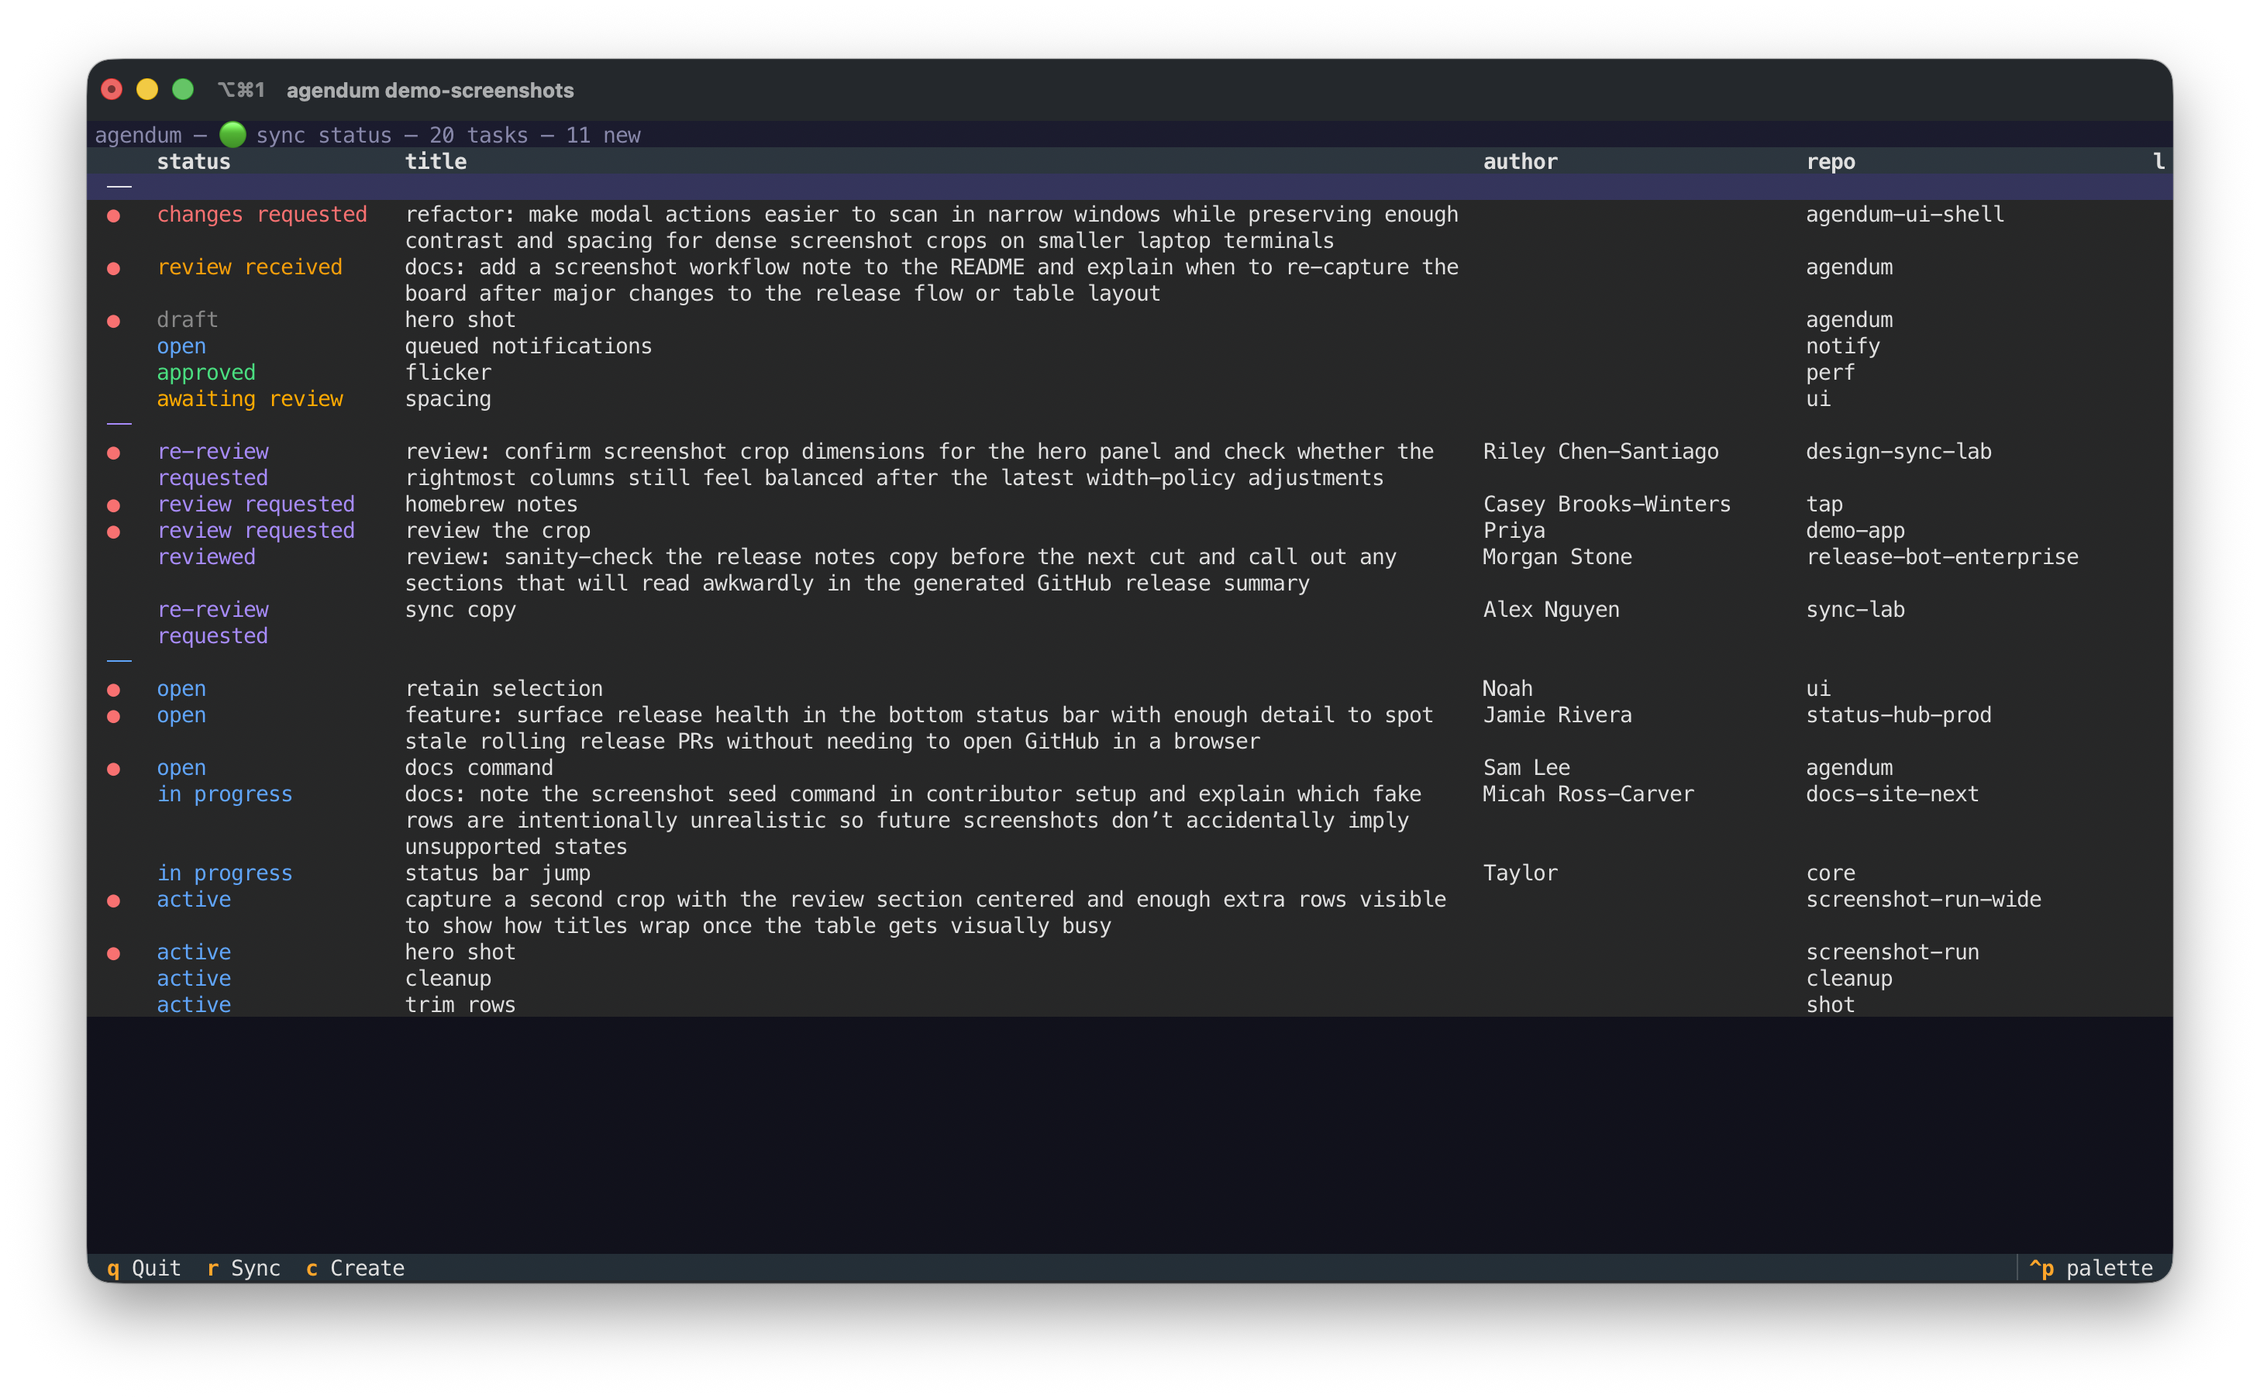
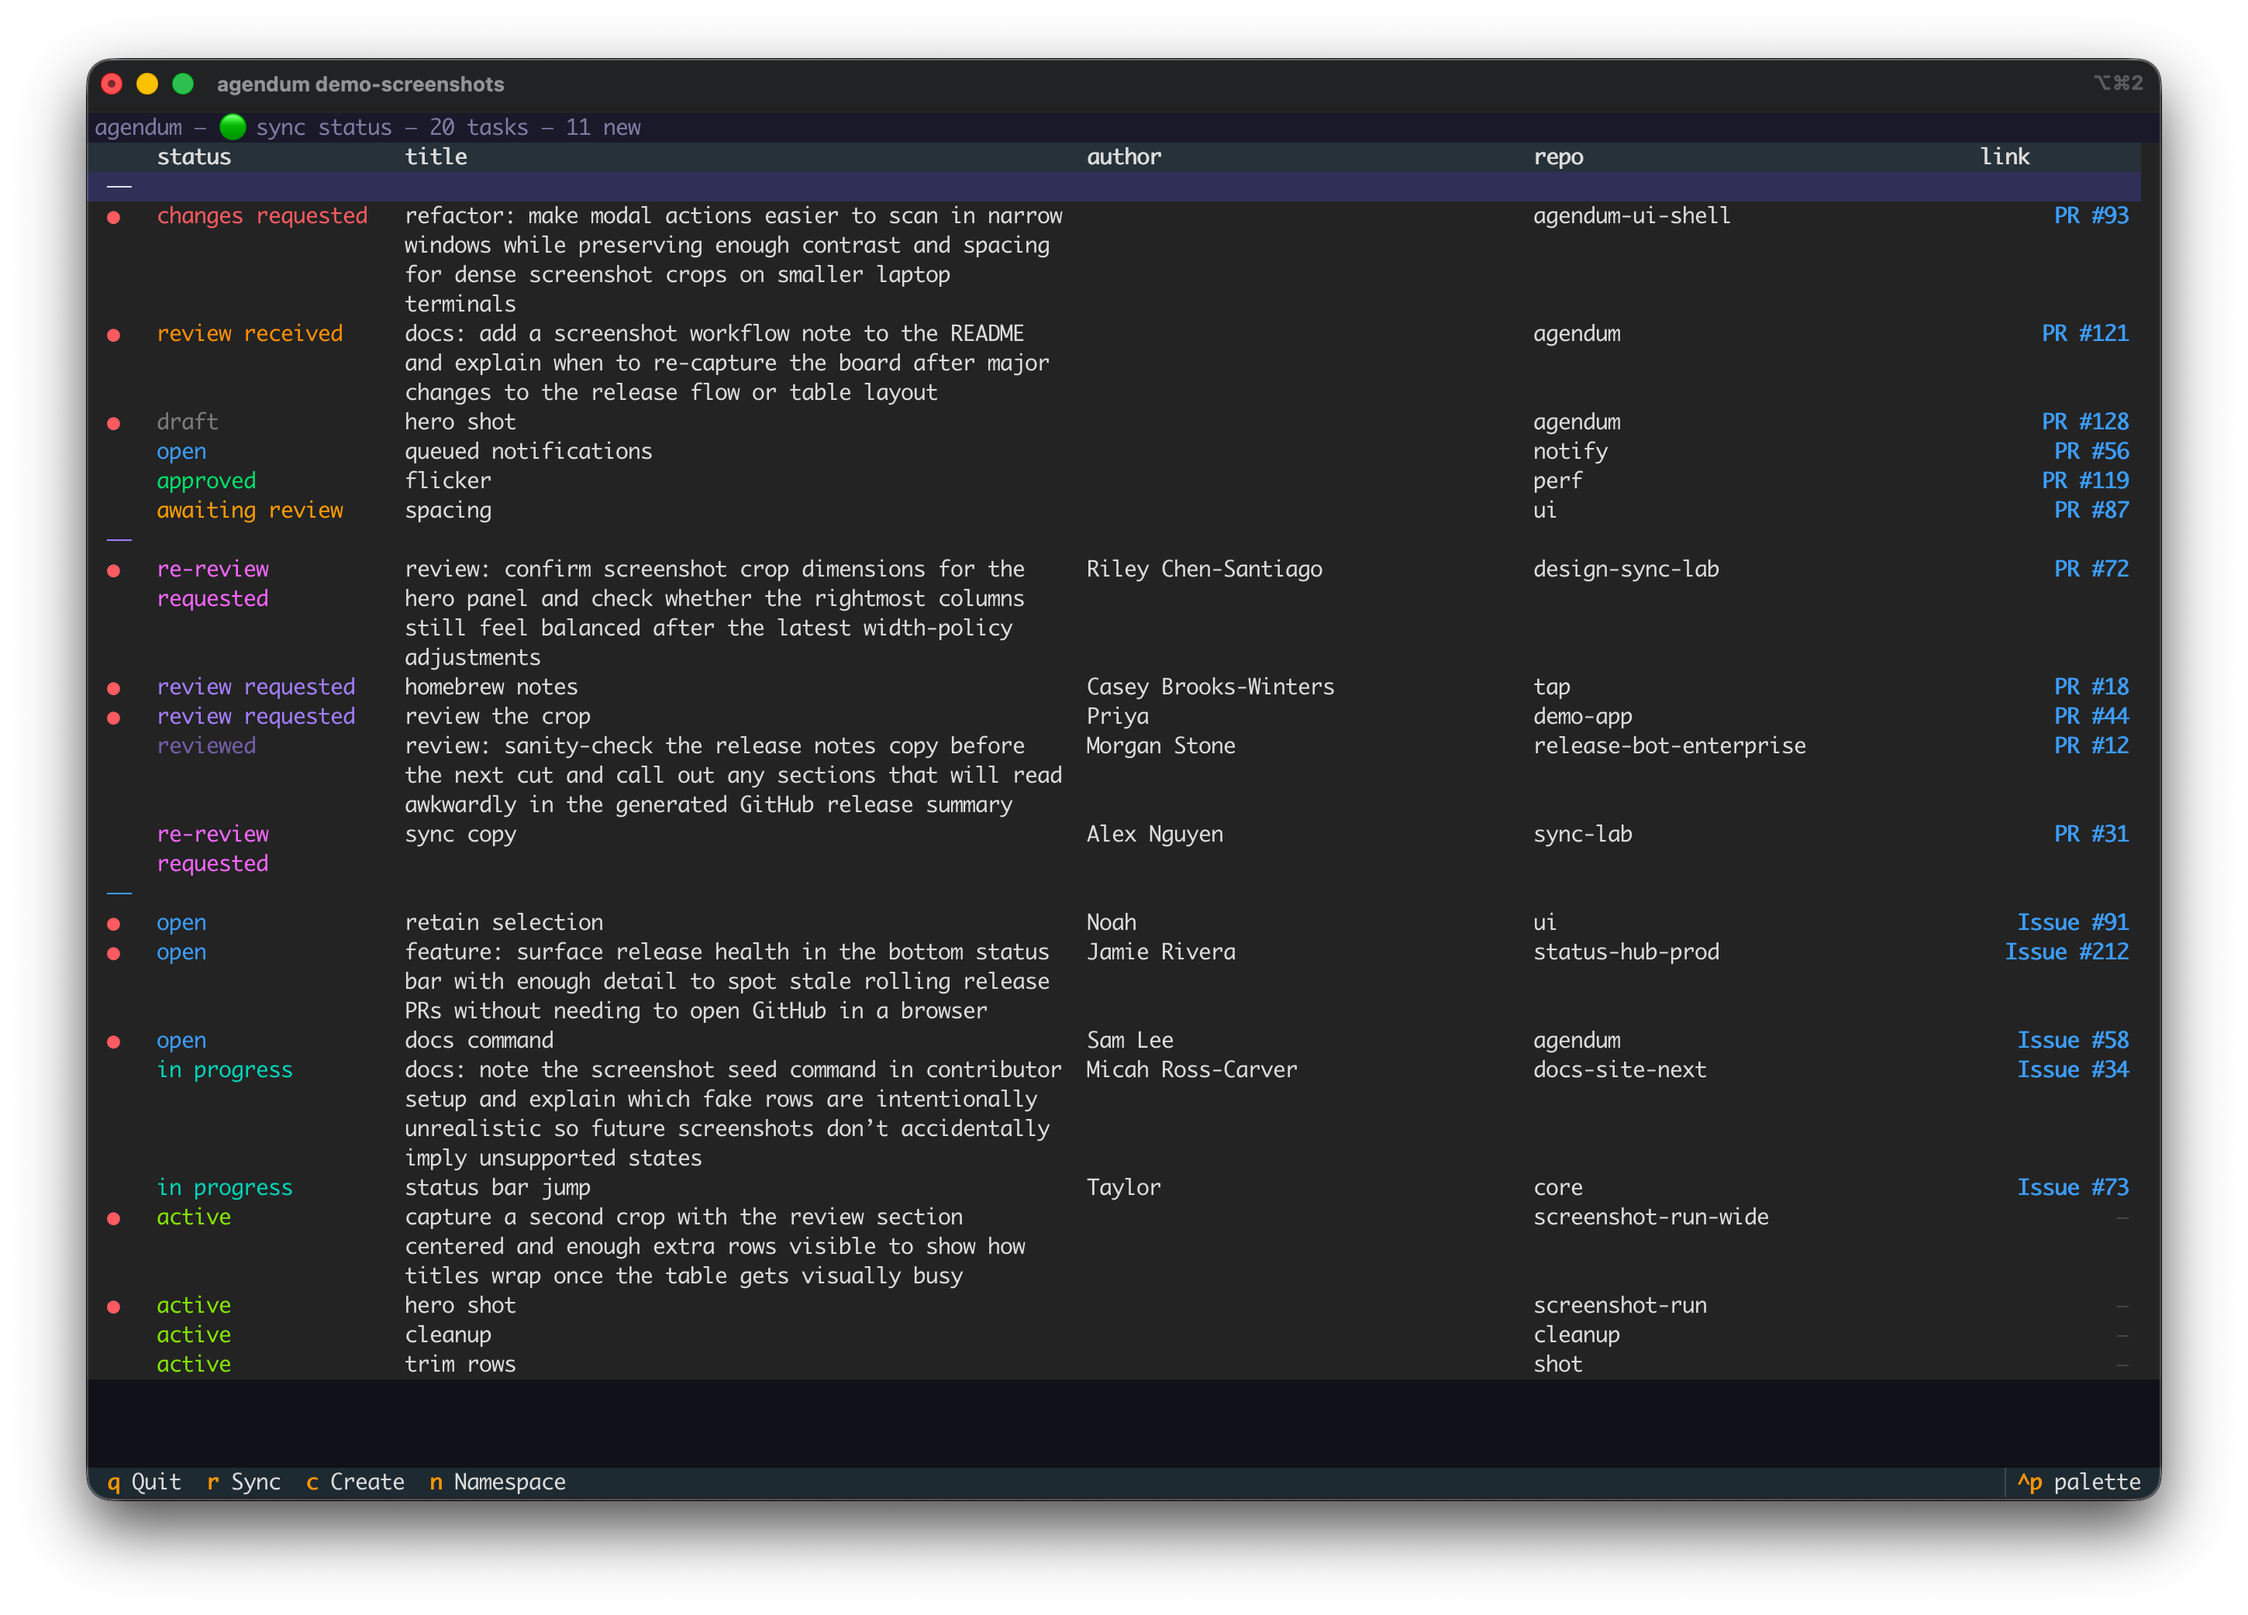
feat(ui): differentiate status colors per section
Give the reviews-requested and issues/manual sections distinct palettes
derived from their section base colors, so statuses within each section
can be told apart at a glance rather than sharing one hue.

- reviews requested (violet family): review requested stays violet,
  re-review requested shifts to fuchsia to flag urgency, reviewed drops
  to a muted violet for the completed state.
- issues & manual (blue family): open stays blue, in progress moves to
  teal, active (manual tasks) moves to lime — a cool-to-warm gradient
  that keeps all three visually distinct.

Also refreshes the README screenshot.

diff --git a/tests/test_widgets.py b/tests/test_widgets.py
@@ -35,9 +35,10 @@ class TestStyledStatus:
             ("changes requested", "#f87171"),
             ("merged", "#888888"),
             ("review requested", "#a78bfa"),
-            ("re-review requested", "#a78bfa"),
-            ("in progress", "#60a5fa"),
-            ("active", "#60a5fa"),
+            ("re-review requested", "#e879f9"),
+            ("reviewed", "#7c6aad"),
+            ("in progress", "#2dd4bf"),
+            ("active", "#a3e635"),
             ("done", "#888888"),
         ],
     )

diff --git a/src/agendum/widgets.py b/src/agendum/widgets.py
@@ -20,11 +20,11 @@ STATUS_STYLES: dict[str, str] = {
     "approved": "#4ade80",
     "merged": "#888888",
     "review requested": "#a78bfa",
-    "reviewed": "#a78bfa",
-    "re-review requested": "#a78bfa",
-    "in progress": "#60a5fa",
+    "reviewed": "#7c6aad",
+    "re-review requested": "#e879f9",
+    "in progress": "#2dd4bf",
     "closed": "#888888",
-    "active": "#60a5fa",
+    "active": "#a3e635",
     "done": "#888888",
 }
 
